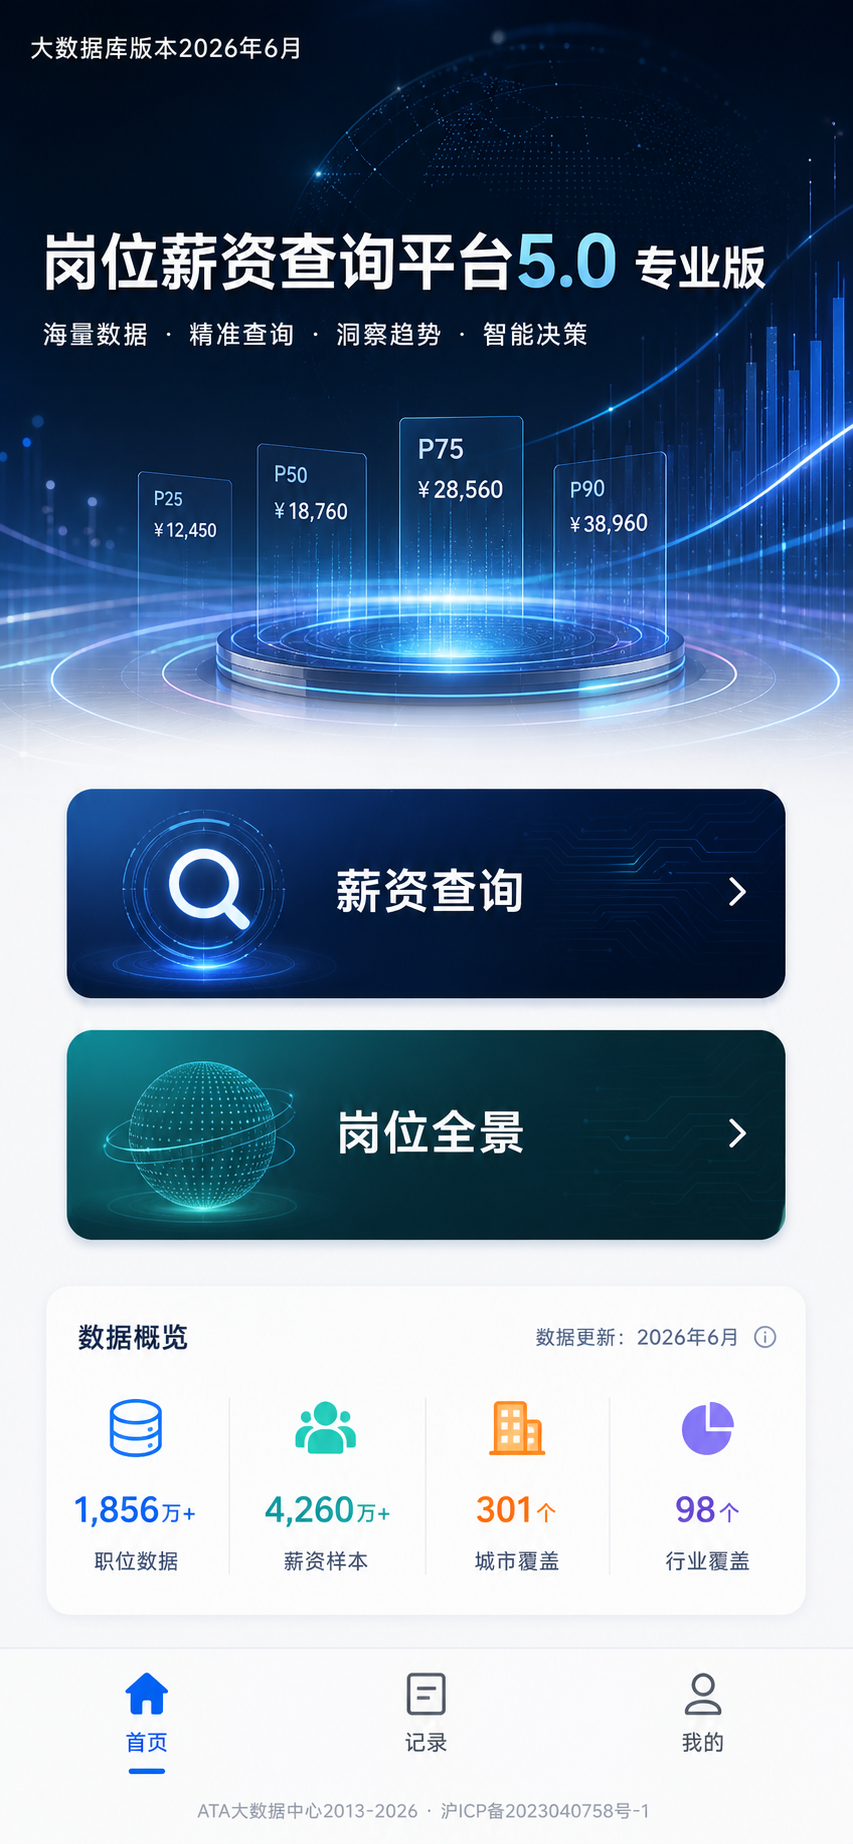
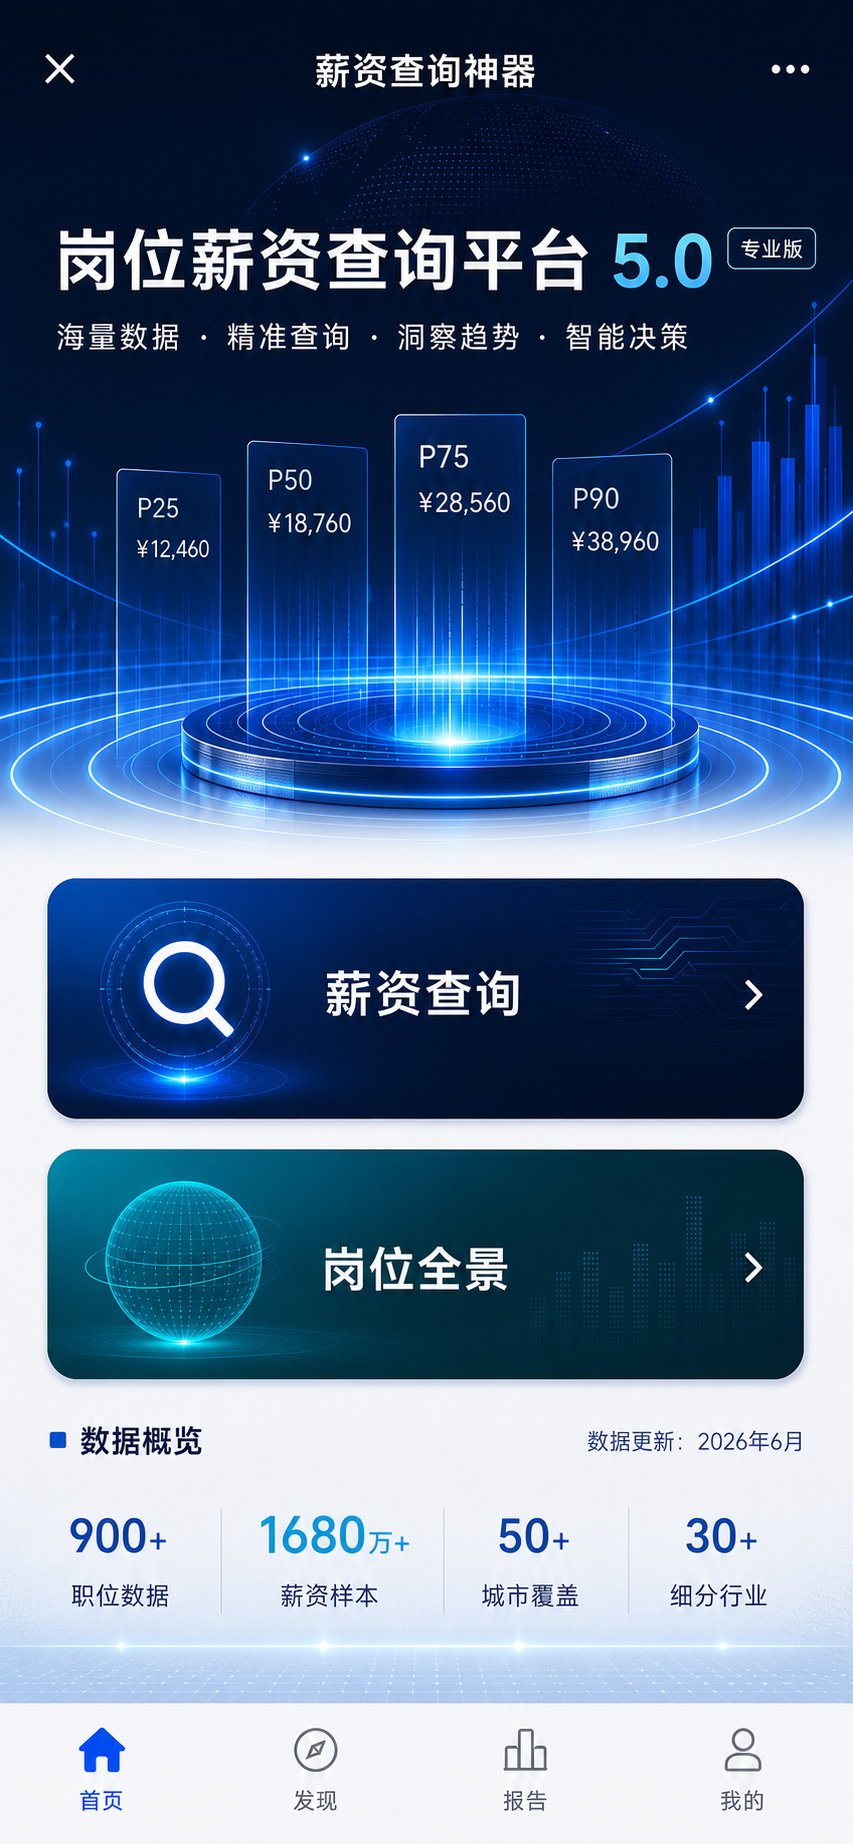
feat: update mobile home background design

diff --git a/src/styles/index.css b/src/styles/index.css
@@ -2568,7 +2568,7 @@ body::before {
 .ata-mobile-stage {
   display: none;
   width: 100vw;
-  aspect-ratio: 853 / 1844;
+  aspect-ratio: 854 / 1852;
 }
 
 .ata-design-image {
@@ -2694,30 +2694,19 @@ body::before {
   }
 
   .ata-design-stage {
-    transform: translateY(-3.4dvh);
+    transform: none;
   }
 
   .ata-version-cover-mobile {
-    left: 2.6%;
-    top: 1.2%;
-    width: 34.8%;
-    height: 2.8%;
+    display: none;
   }
 
   .ata-title-cover-mobile {
-    left: 74.0%;
-    top: 11.15%;
-    width: 25.5%;
-    height: 5.25%;
+    display: none;
   }
 
   .ata-pro-badge-mobile {
-    left: 75.6%;
-    top: 10.2%;
-    width: 13.0%;
-    height: 2.12%;
-    border-radius: 999px;
-    font-size: clamp(9px, 2.45vw, 13px);
+    display: none;
   }
 
   .ata-hotspot {
@@ -2725,37 +2714,37 @@ body::before {
   }
 
   .ata-mobile-salary {
-    left: 7.74%;
-    top: 42.84%;
-    width: 84.4%;
-    height: 11.28%;
+    left: 5.5%;
+    top: 47.45%;
+    width: 89.0%;
+    height: 12.9%;
   }
 
   .ata-mobile-panorama {
-    left: 7.74%;
-    top: 55.91%;
-    width: 84.4%;
-    height: 11.28%;
+    left: 5.5%;
+    top: 62.05%;
+    width: 89.0%;
+    height: 12.8%;
   }
 
   .ata-mobile-home {
     left: 0;
-    top: 88.98%;
-    width: 33.33%;
-    height: 7.5%;
+    top: 91.98%;
+    width: 25%;
+    height: 8.02%;
   }
 
   .ata-mobile-records {
-    left: 33.33%;
-    top: 88.98%;
-    width: 33.33%;
-    height: 7.5%;
+    left: 50%;
+    top: 91.98%;
+    width: 25%;
+    height: 8.02%;
   }
 
   .ata-mobile-profile {
-    left: 66.66%;
-    top: 88.98%;
-    width: 33.34%;
-    height: 7.5%;
+    left: 75%;
+    top: 91.98%;
+    width: 25%;
+    height: 8.02%;
   }
 }